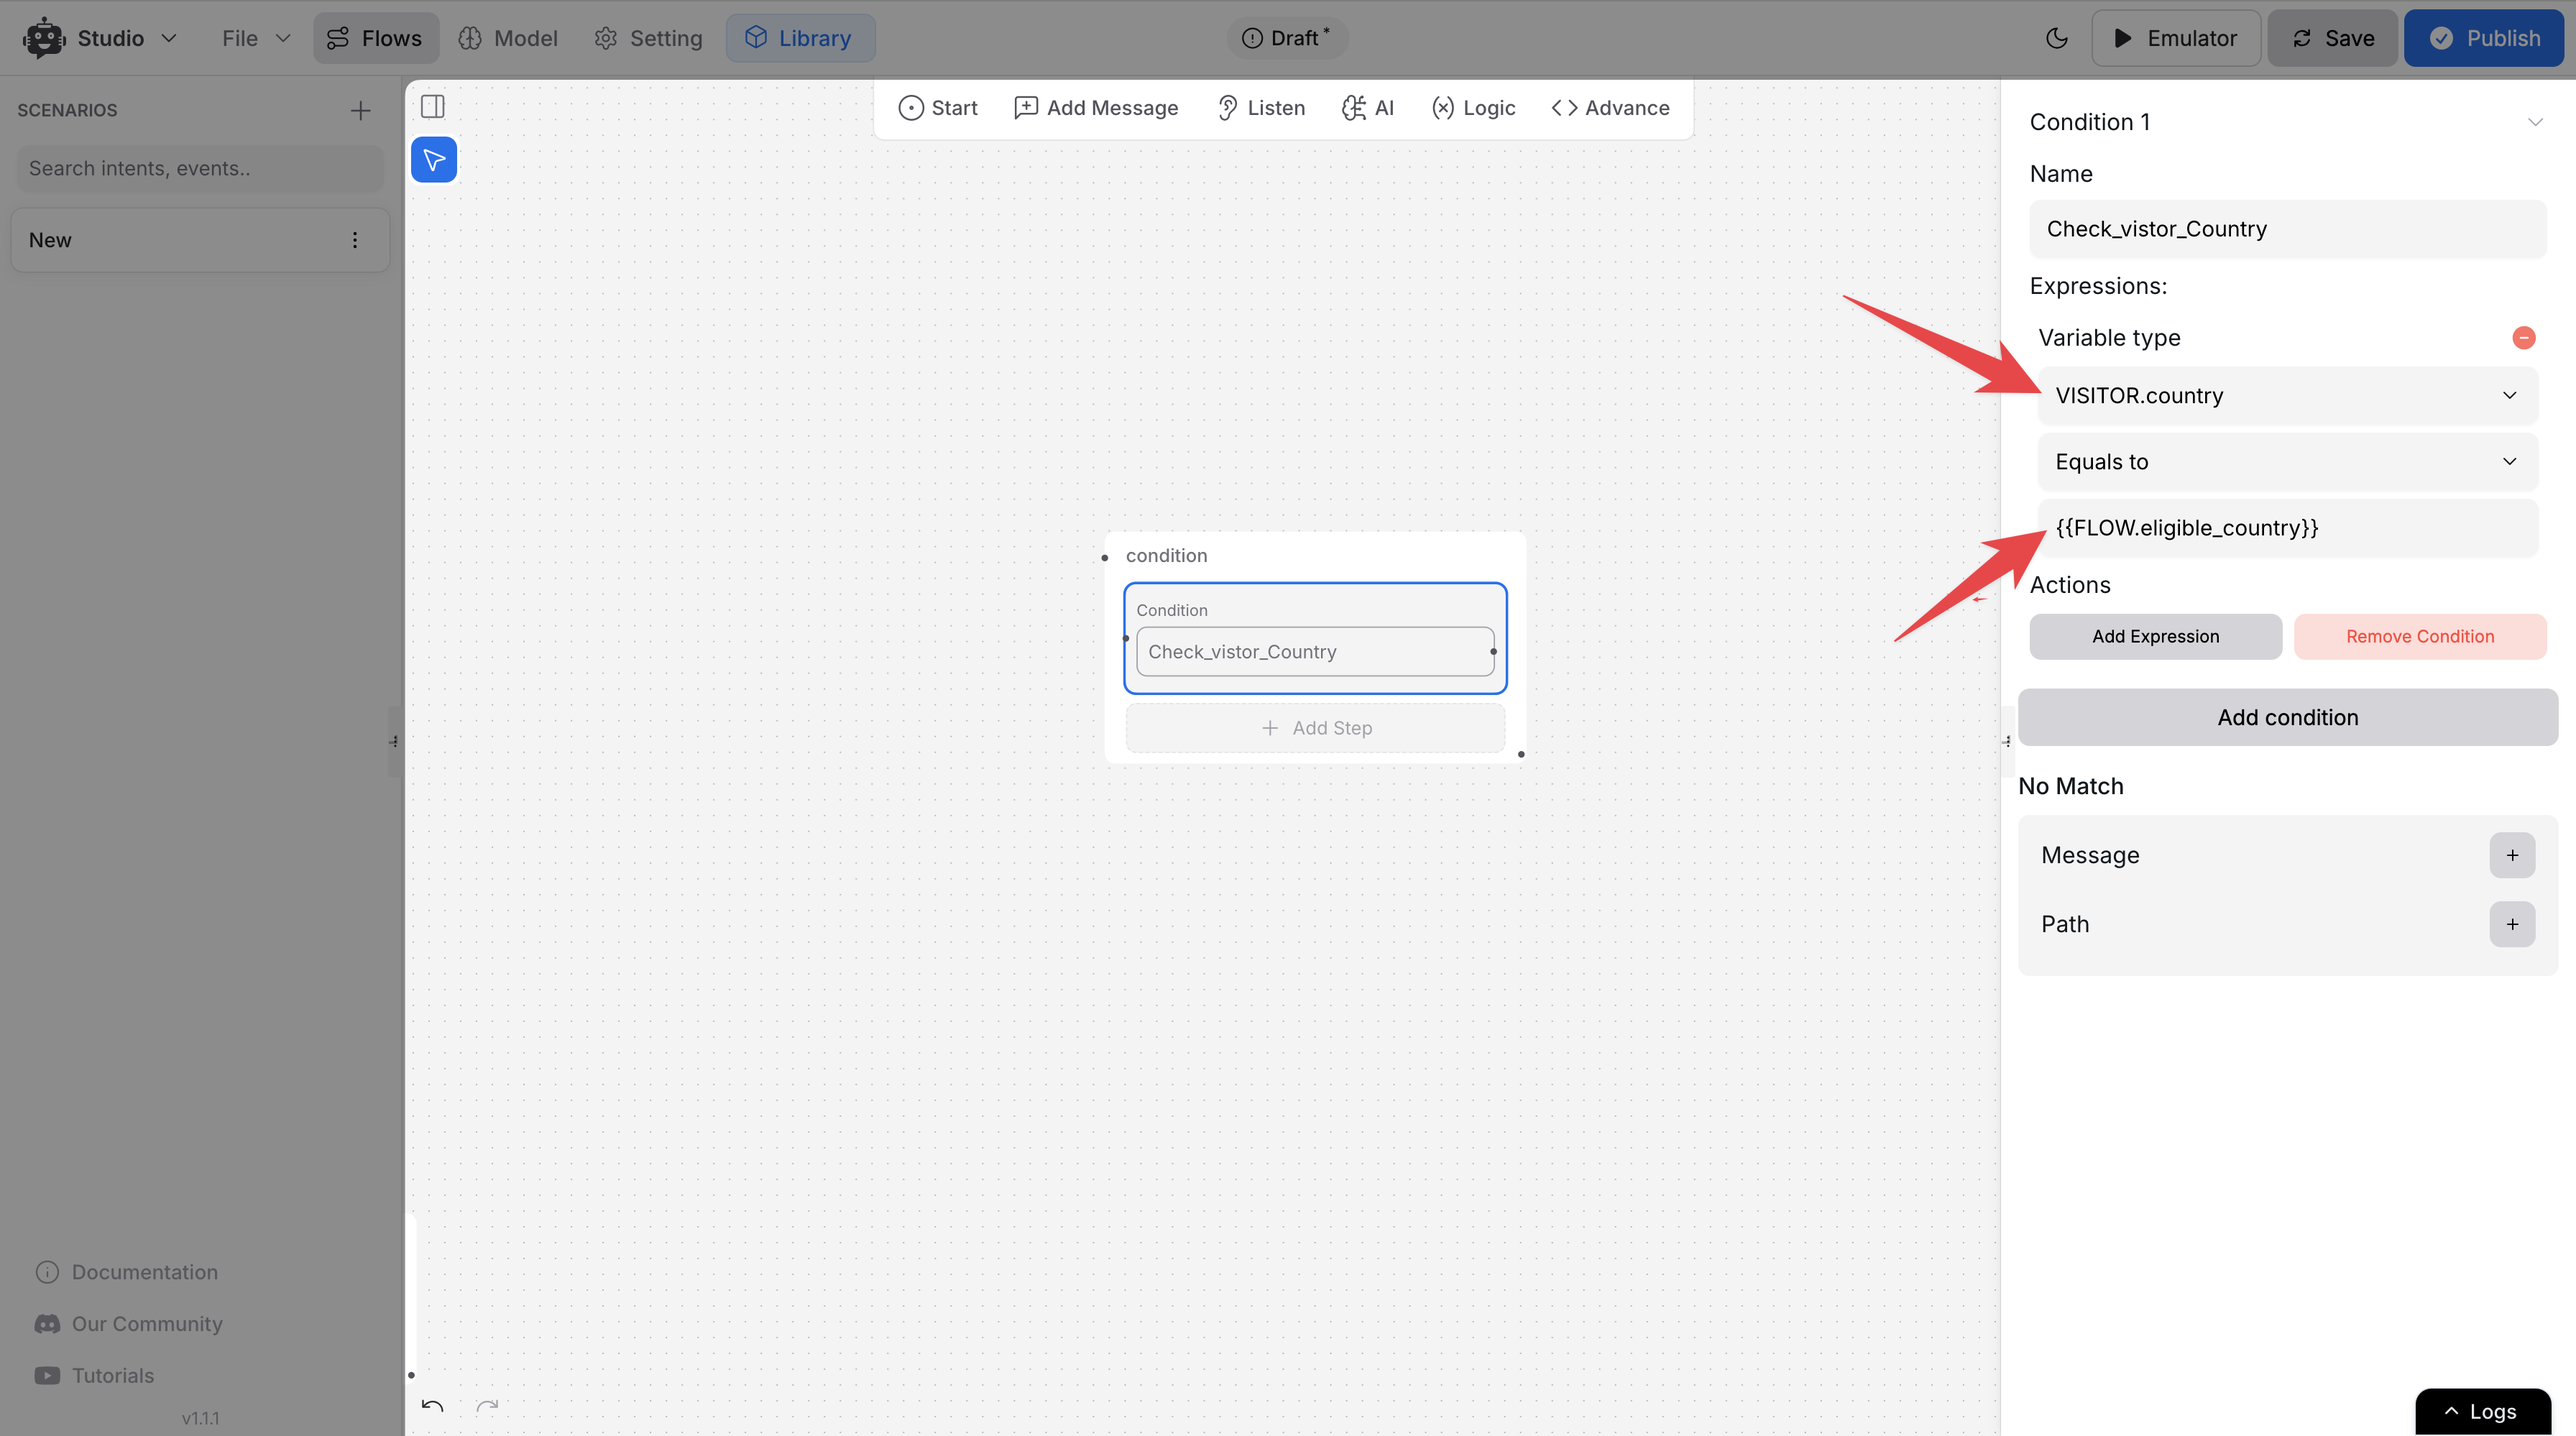
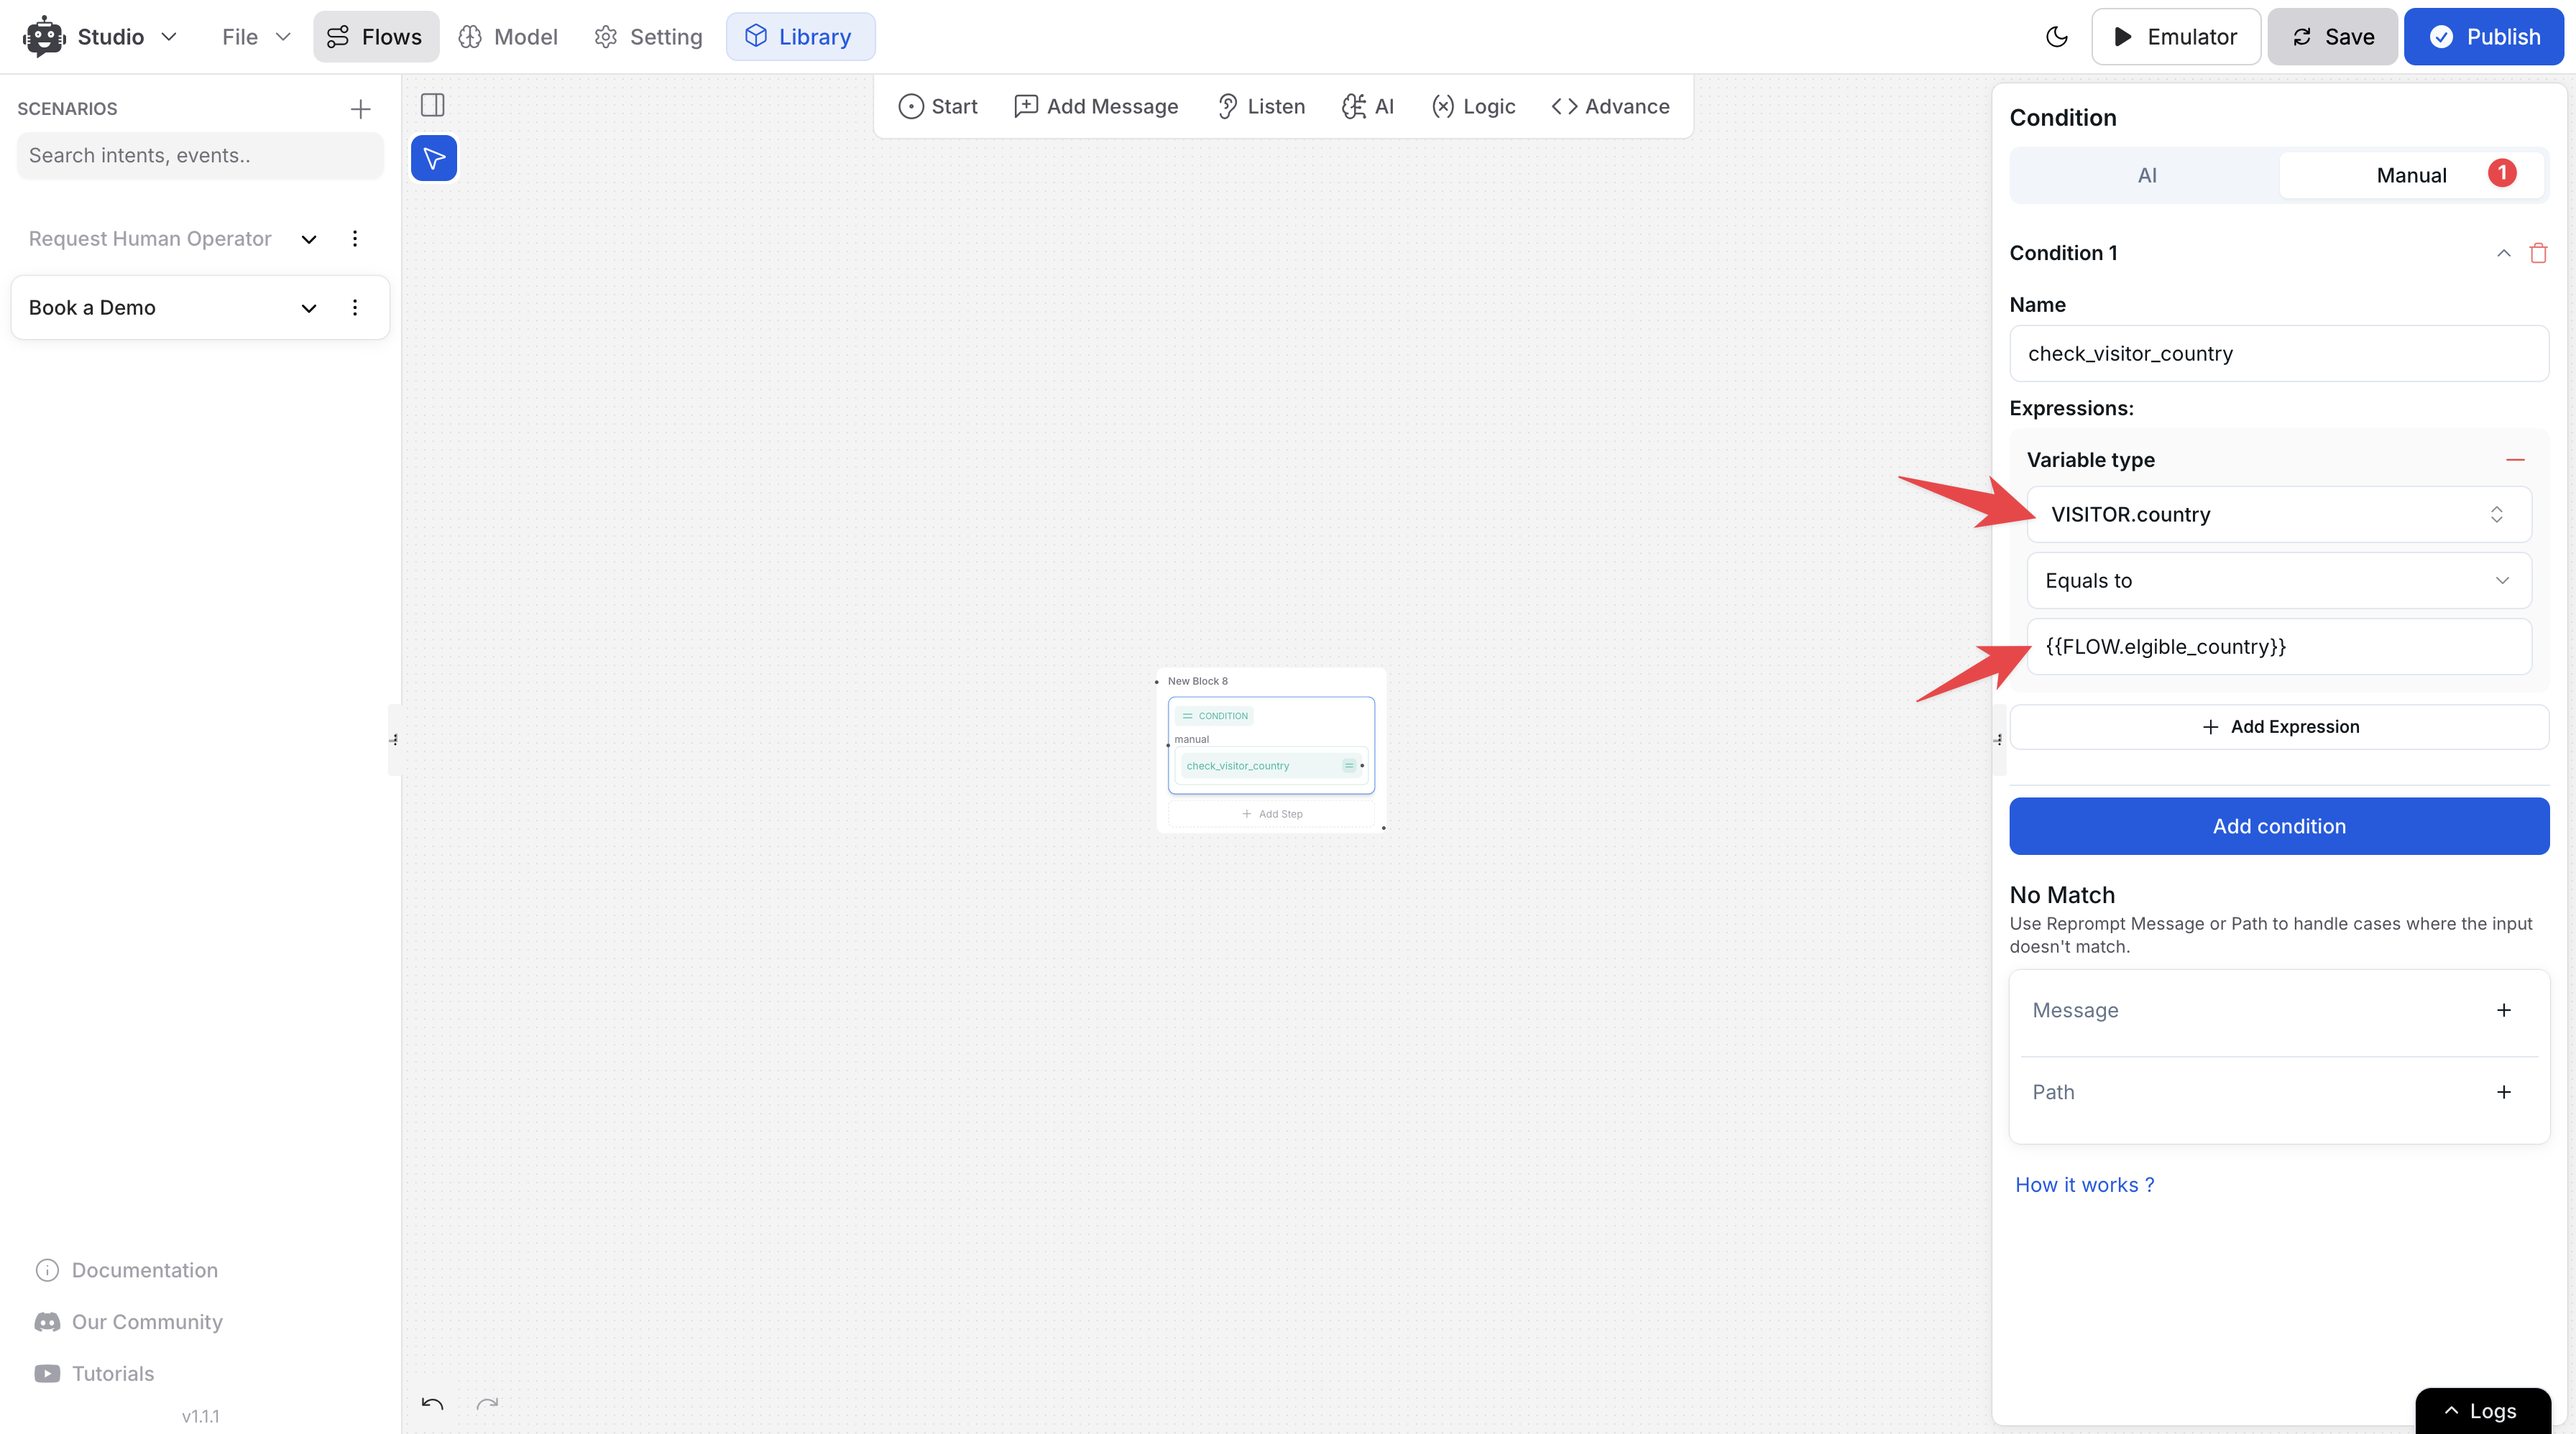
Update conditions documentation with AI and manual condition types

diff --git a/src/components/Landing/InfoCard.jsx b/src/components/Landing/InfoCard.jsx
@@ -27,7 +27,7 @@ export const CARDDATA = [
         title: "Changelogs",
         icon: HiRocketLaunch,
         description: "Learn about the latest features, updates, and improvements in our products.",
-        link: "/chatbot/changelogs",
+        link: "/changelogs",
         linkText: "Explore ",
         iconColor: "dark:text-[#bd53ee] text-gray-800/90",
         target: "_self"
